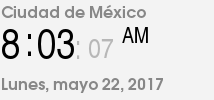
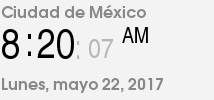
update images 22-05-2017 08:20

Changed region(s): [[0.1682, 0.3, 0.3645, 0.6]]

diff --git a/README.md b/README.md
@@ -2139,3 +2139,5 @@
 |22-05-2017 07:40
 |22-05-2017 07:50
 |22-05-2017 08:03
+|22-05-2017 08:11
+|22-05-2017 08:20
